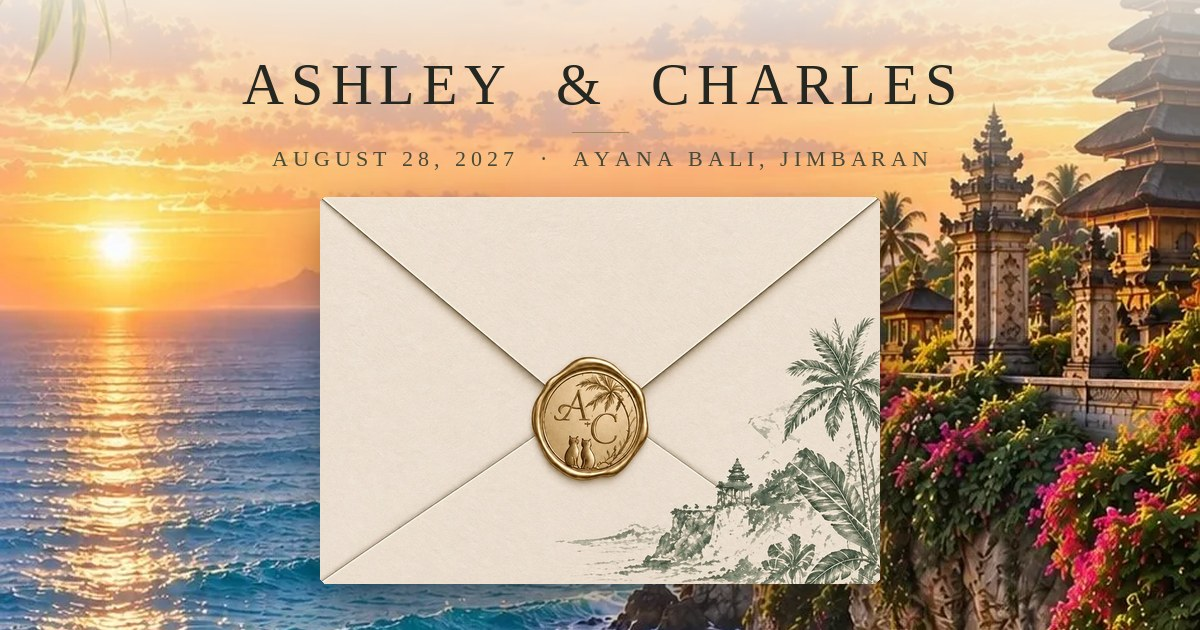
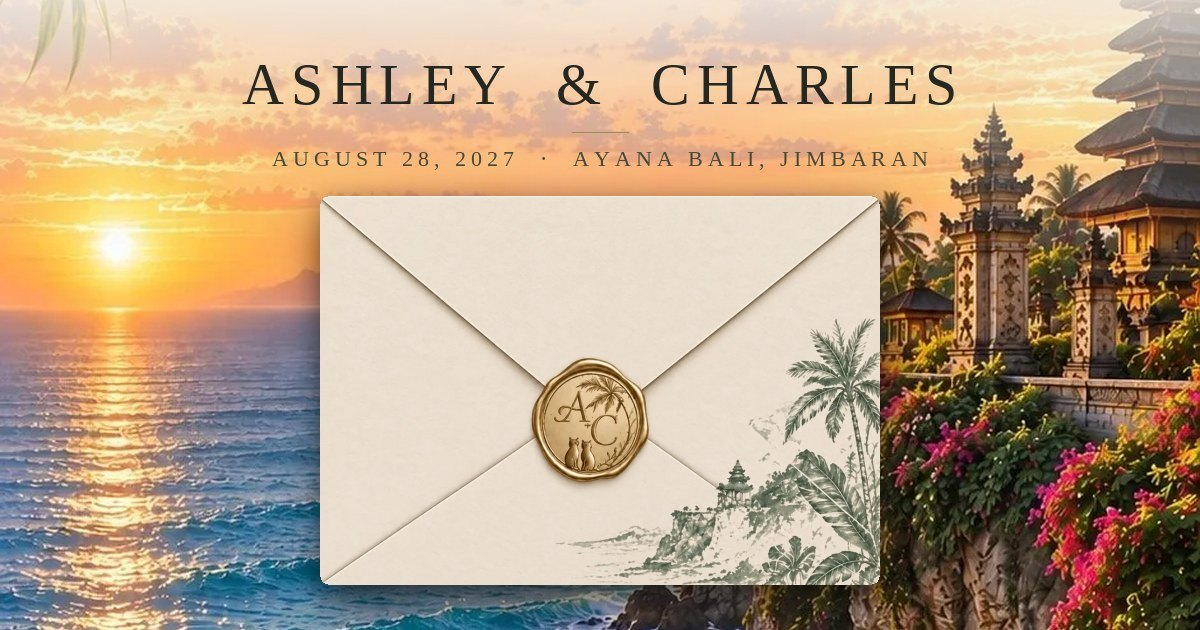
New envelope art with the wax seal cut clean so it keeps its shape as the flap lifts; tea ceremony section (05) with sections renumbered; concert print in the letter's last row; share image recomposited
Claude-Session: https://claude.ai/code/session_01GqK2ENqeRUwQmtgcSZFd9X

diff --git a/index.html b/index.html
@@ -235,7 +235,7 @@ button,input,select,textarea{font:inherit;color:inherit}
 .env{width:var(--ew);height:var(--eh);margin-left:calc(var(--ew) / -2);margin-top:calc(var(--eh) / -2)}
 .env-back{z-index:2;background:#E3DBC9;border-radius:6px;box-shadow:0 16px 36px -10px rgba(45,35,20,.42),0 3px 8px rgba(45,35,20,.16)}
 .env-pocket{z-index:3;border-radius:6px;overflow:hidden;background:#EDE6D8 center/100% 100% no-repeat;
-  clip-path:polygon(0 0,48.07% 57.45%,100% 0,100% 100%,0 100%);-webkit-clip-path:polygon(0 0,48.07% 57.45%,100% 0,100% 100%,0 100%)}
+  clip-path:polygon(0 0,49.96% 60.96%,100% 0,100% 100%,0 100%);-webkit-clip-path:polygon(0 0,49.96% 60.96%,100% 0,100% 100%,0 100%)}
 .env-pocket .addr{
   position:absolute;left:8%;right:44%;bottom:7%;text-align:center;
   font-family:var(--script);font-size:clamp(19px,5.2vw,26px);color:#6B6558;
@@ -247,11 +247,11 @@ button,input,select,textarea{font:inherit;color:inherit}
 }
 .env-flap .flap-face{
   position:absolute;inset:0;background:#EDE6D8 center/100% 100% no-repeat;
-  clip-path:polygon(0 0,100% 0,48.07% 57.45%);
-  -webkit-clip-path:polygon(0 0,100% 0,48.07% 57.45%);
+  clip-path:polygon(0 0,100% 0,49.96% 60.96%);
+  -webkit-clip-path:polygon(0 0,100% 0,49.96% 60.96%);
 }
-.seal{   /* the seal and its painted shadow, cut from the sealed artwork at this exact box */
-  position:absolute;left:35.750%;top:39.952%;width:24.833%;height:36.582%;
+.seal{   /* the wax alone, cut from the artwork at this exact box, with its own soft shadow */
+  position:absolute;left:35.669%;top:38.648%;width:25.088%;height:38.345%;
   will-change:transform;
 }
 .seal-art{position:absolute;inset:0;background:url("assets/seal.webp") center/100% 100% no-repeat}
@@ -420,6 +420,7 @@ html.is-locked,html.is-locked body{overflow:hidden;overscroll-behavior:none}
 .section>.inner::before{top:calc(var(--arch-r) * .09)}
 .section>.inner::after{bottom:calc(var(--arch-r) * .09);transform:translateX(-50%) scaleY(-1)}
 .arch-art{display:block;width:min(46%,170px);height:auto;margin:-.4em auto .9em}
+.tea-art{display:block;width:min(88%,520px);height:auto;margin:-.2em auto .6em}
 .eyebrow{font-family:var(--mono);font-size:14px;letter-spacing:.16em;text-transform:uppercase;color:var(--gold-line);margin-bottom:1.1em;display:block}
 .section h2{font-size:clamp(32px,7vw,50px);margin-bottom:.45em;max-width:16ch;color:var(--olive)}
 .lede{font-size:clamp(18px,2.4vw,21px);line-height:1.45;max-width:36ch}
@@ -674,9 +675,10 @@ html.has-lightbox{overflow:hidden}
     <li><a href="#date"><small>02</small>The date</a></li>
     <li><a href="#weekend"><small>03</small>The schedule</a></li>
     <li><a href="#dress"><small>04</small>Dress code</a></li>
-    <li><a href="#adults"><small>05</small>Adults only</a></li>
-    <li><a href="#faq"><small>06</small>Questions</a></li>
-    <li><a href="#rsvp"><small>07</small>RSVP</a></li>
+    <li><a href="#tea"><small>05</small>Tea ceremony</a></li>
+    <li><a href="#adults"><small>06</small>Adults only</a></li>
+    <li><a href="#faq"><small>07</small>Questions</a></li>
+    <li><a href="#rsvp"><small>08</small>RSVP</a></li>
   </ol>
 </nav>
 
@@ -834,7 +836,8 @@ html.has-lightbox{overflow:hidden}
       <li data-caption="The back nine at Torrey Pines"><button type="button" class="snap" aria-label="View larger: The back nine at Torrey Pines"><img data-src="assets/photo-golf-thumb.webp" data-full="assets/photo-golf.webp" alt="Ashley and Charles on the tee at Torrey Pines, the Pacific behind them." width="480" height="480" loading="lazy" decoding="async"><i class="snap-zoom" aria-hidden="true"><svg viewBox="0 0 24 24"><path d="M14 4h6v6M20 4l-7 7M10 20H4v-6M4 20l7-7" fill="none" stroke="currentColor" stroke-width="1.8" stroke-linecap="round" stroke-linejoin="round"/></svg></i></button><span>The back nine</span></li>
     </ul>
     <p>For the wedding, we didn’t want a typical venue. Our favorite rounds have always been on cliffs above the ocean, so we went looking for a place that felt like our happy place, the golf course: a cliff, an ocean, and everyone we love in one place. Your only job is to show up. It’s going to be perfect. We checked.</p>
-    <ul class="snaps snaps-two" aria-label="Two more of us">
+    <ul class="snaps" aria-label="Three more of us">
+      <li><button type="button" class="snap" aria-label="View larger photo"><img data-src="assets/photo-concert-thumb.webp" data-full="assets/photo-concert.webp" alt="Ashley and Charles grinning in a selfie at a stadium concert, the stands lit blue and pink behind them." width="480" height="480" loading="lazy" decoding="async"><i class="snap-zoom" aria-hidden="true"><svg viewBox="0 0 24 24"><path d="M14 4h6v6M20 4l-7 7M10 20H4v-6M4 20l7-7" fill="none" stroke="currentColor" stroke-width="1.8" stroke-linecap="round" stroke-linejoin="round"/></svg></i></button><span aria-hidden="true"></span></li>
       <li><button type="button" class="snap" aria-label="View larger photo"><img data-src="assets/photo-run-thumb.webp" data-full="assets/photo-run.webp" alt="Ashley running along the shoreline in a white dress, Charles a step behind, both laughing." width="480" height="480" loading="lazy" decoding="async"><i class="snap-zoom" aria-hidden="true"><svg viewBox="0 0 24 24"><path d="M14 4h6v6M20 4l-7 7M10 20H4v-6M4 20l7-7" fill="none" stroke="currentColor" stroke-width="1.8" stroke-linecap="round" stroke-linejoin="round"/></svg></i></button><span aria-hidden="true"></span></li>
       <li><button type="button" class="snap" aria-label="View larger photo"><img data-src="assets/photo-embrace-thumb.webp" data-full="assets/photo-embrace.webp" alt="Charles holding Ashley from behind on the beach, both smiling at the camera." width="480" height="480" loading="lazy" decoding="async"><i class="snap-zoom" aria-hidden="true"><svg viewBox="0 0 24 24"><path d="M14 4h6v6M20 4l-7 7M10 20H4v-6M4 20l7-7" fill="none" stroke="currentColor" stroke-width="1.8" stroke-linecap="round" stroke-linejoin="round"/></svg></i></button><span aria-hidden="true"></span></li>
     </ul>
@@ -942,9 +945,20 @@ html.has-lightbox{overflow:hidden}
 <!-- =======================================================================
      5 · ADULTS ONLY
      ======================================================================= -->
+<section class="section tea" id="tea">
+  <div class="inner">
+    <span class="eyebrow">05 — Friday evening</span>
+    <img class="tea-art" data-src="assets/tea-ceremony.webp" alt="A red and gold tea set with double-happiness cups, two embroidered kneeling cushions, red envelopes, gold bangles and plum blossom." width="1100" height="708" loading="lazy" decoding="async">
+    <h2>The tea ceremony</h2>
+    <p class="lede">Rooted in centuries of Chinese tradition, the tea ceremony is a symbolic way of honoring our elders, expressing gratitude, and welcoming the joining of two families.</p>
+    <p style="max-width:52ch;margin-left:auto;margin-right:auto">Before the ceremony, Charles will take on the playful tradition of door games, proving his love and earning his way to Ashley. Together, we will then serve tea to our elders and receive their blessings as we begin our marriage.</p>
+    <p style="max-width:52ch;margin-left:auto;margin-right:auto">For us, it is a meaningful way to honor Ashley’s Chinese heritage while celebrating the coming together of our Chinese and Japanese families.</p>
+  </div>
+</section>
+
 <section class="section" id="adults">
   <div class="inner">
-    <span class="eyebrow">05 — A note on children</span>
+    <span class="eyebrow">06 — A note on children</span>
     <img class="arch-art" data-src="assets/adults-bunny.webp" alt="" width="820" height="689" loading="lazy" decoding="async">
     <h2>Adults only</h2>
     <p class="lede">With love for all the little ones in our lives, our wedding weekend will be an adults-only celebration. We hope the occasion feels like a little holiday for the grown-ups, too.</p>
@@ -967,7 +981,7 @@ html.has-lightbox{overflow:hidden}
   <div class="pav pav-tall" id="faqPav">
     <i class="pav-motif pav-motif-top" aria-hidden="true"></i>
     <header class="fq-head fq-reveal">
-      <span class="eyebrow">06 — Questions</span>
+      <span class="eyebrow">07 — Questions</span>
       <h2 class="script-line">You might be wondering</h2>
       <i class="mt-rule"></i>
       <p class="fq-sub">Here are a few details to help you plan your trip to Bali.</p>
@@ -1022,7 +1036,7 @@ html.has-lightbox{overflow:hidden}
 
 <section class="section rsvp" id="rsvp">
   <div class="inner">
-    <span class="eyebrow">07 — RSVP</span>
+    <span class="eyebrow">08 — RSVP</span>
     <h2>Will you come?</h2>
     <p class="deadline" id="deadline">Reply by January 31, 2027</p>
 
@@ -1253,7 +1267,7 @@ var RSVP_ENDPOINT = "";
       CPS = [0, T_TICKET, T_BOOK, T_PAGES, T_HOLD];
       var envTop = envY - eh / 2;
       /* the pocket's edge: a V from the envelope's top corners down to the notch */
-      V = { lx: -ew / 2, ly: envTop, nx: -ew * .0193, ny: envTop + eh * .5745, rx: ew / 2, ry: envTop };
+      V = { lx: -ew / 2, ly: envTop, nx: -ew * .0004, ny: envTop + eh * .6096, rx: ew / 2, ry: envTop };
       var tw = ew * .92, th = tw * .4374, pw0 = ew * .60, ph0 = pw0 * 1.16, s0 = ew * .50 / ppW;
       /* where each rests once the flap is open (sealed, each sits lower, wholly inside), where it is held, and how far it sinks when sealed */
       PH = piece(pcPhoto, polaroid, pw0, ph0, { x: ew * .07, y: envTop - eh * .16 + ph0 / 2, s: 1, r: 2 }, { x: 0, y: -vh * .03, s: Math.min(1.4, (vw - 24) / pw0, vh * .62 / ph0), r: 0 }, envTop, eh * .20);
